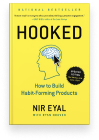
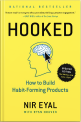
Fix Card image styles + Update Card stories

diff --git a/src/components/card/card-stories.tsx b/src/components/card/card-stories.tsx
@@ -6,7 +6,11 @@ export default {
   component: Card,
 } as Meta
 
-export const Default: Story<CardProps> = (args) => <Card {...args} />
+export const Default: Story<CardProps> = (args) => (
+  <div style={{ maxWidth: 400 }}>
+    <Card {...args} />
+  </div>
+)
 
 Default.args = {
   title: 'Hooked',

diff --git a/src/components/card/card-styles.ts b/src/components/card/card-styles.ts
@@ -32,7 +32,7 @@ export const ImageWrapper = styled.div`
     position: relative;
 
     img {
-      box-shadow: 0 0.6rem 2.4rem rgba(84, 16, 95, 0.45);
+      box-shadow: 0 0.4rem 1.2rem rgba(84, 16, 95, 0.25);
     }
 
     ${media.greaterThan('medium')`
